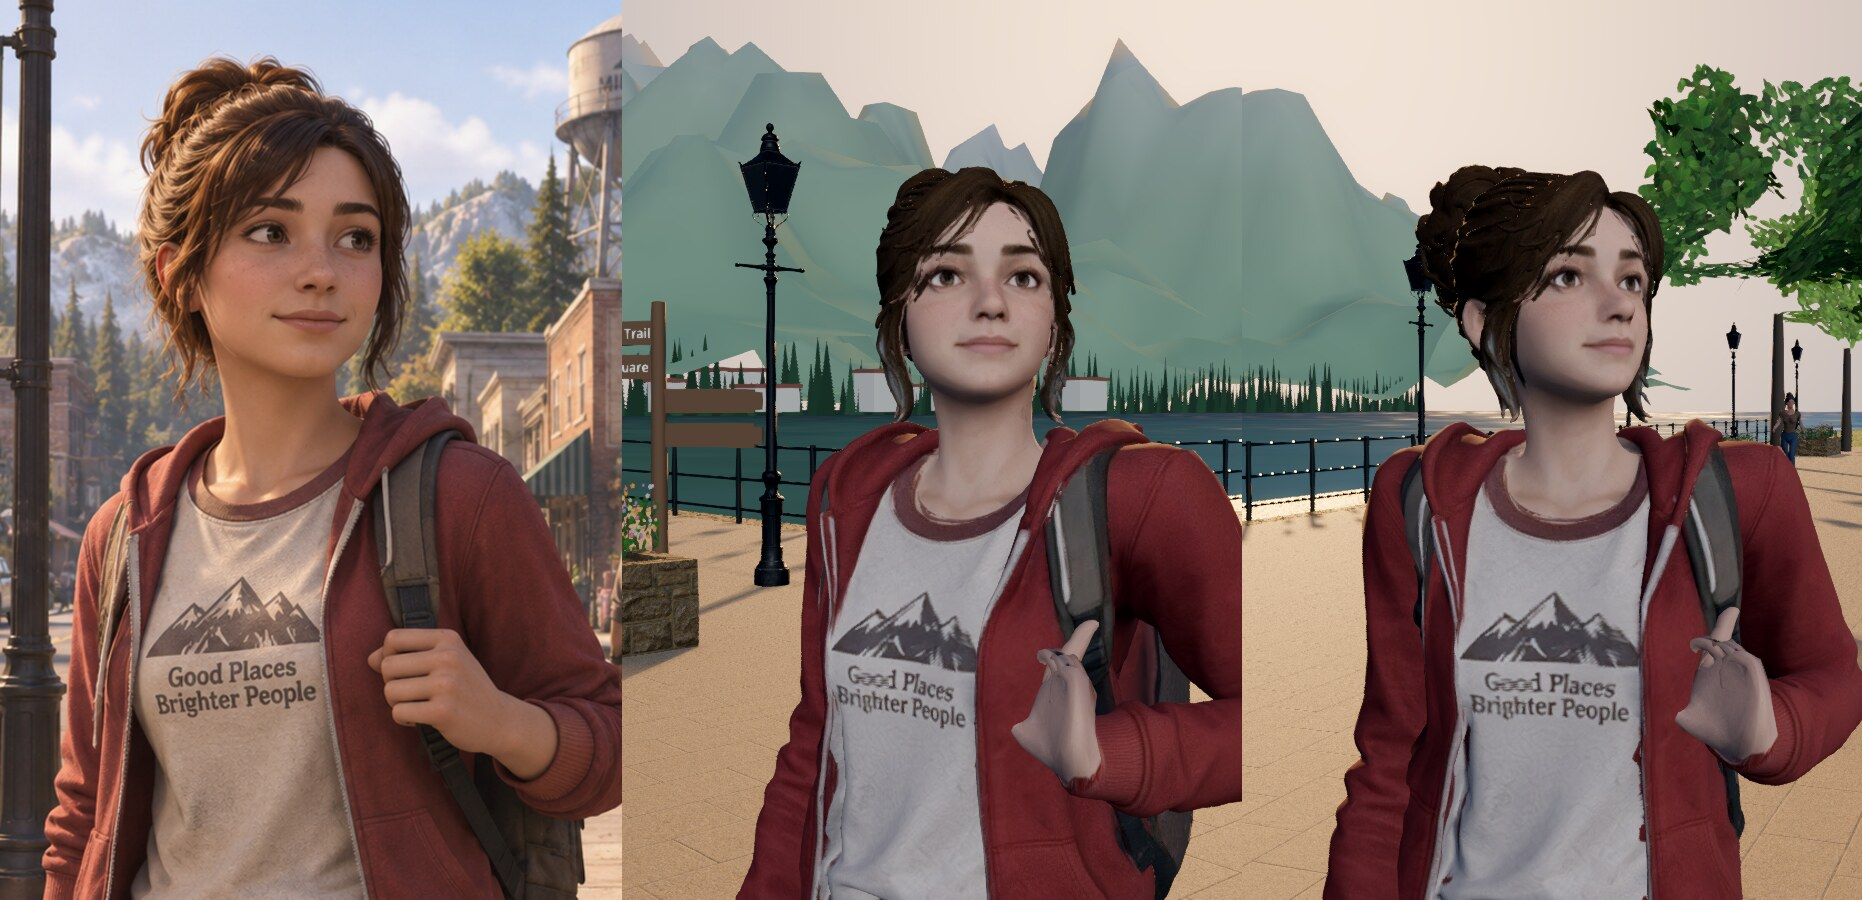
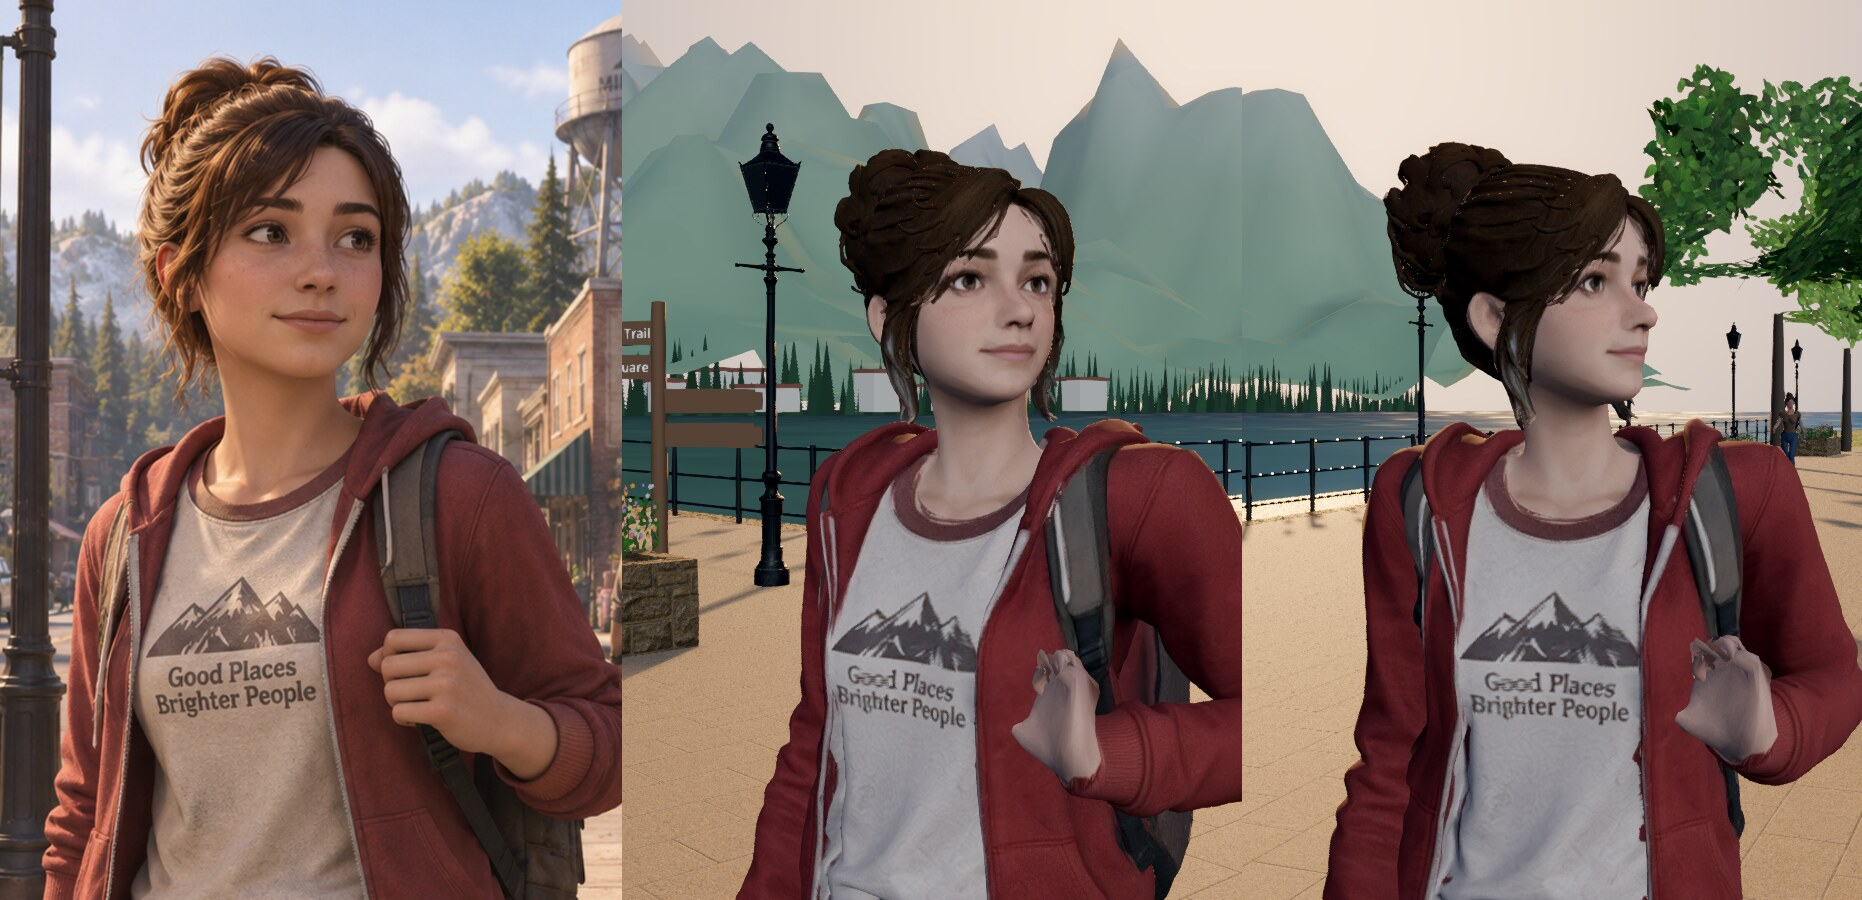
assets(3d): reference body fingers re-weighted per finger; hand closes on the strap
The fused finger surface took heat weights that blurred across the finger
bones, so the grip read as an open hand with a finger pointing up. Each
finger's vertices now follow their own chain (inverse-distance to the bone
segments, two nearest), and the curl closes the hand into a loose fist on
the strap. Provenance and base colour unchanged. Evidence d3-d7 regenerated;
ledger §8.6 and the queue entry updated.

diff --git a/docs/HUMAN_REVIEW_QUEUE.md b/docs/HUMAN_REVIEW_QUEUE.md
@@ -83,18 +83,20 @@ portraits), `d4_full_and_rear.jpg`, `d5_walk.jpg`, `d6_grip_armpit_hairline_zoom
 
 **Known misses, largest first.**
 
-1. The hand on the strap is open, fingers splayed, one finger pointing up, with a dark mark
-   across it; the reference's is a relaxed fist. The generated hand's fingers are one fused
-   surface, so they barely curl.
-2. She looks straight ahead and a little up; the reference looks off to her left. The eyes are
-   painted and cannot turn; only the head turns.
-3. The hair is a darker, cooler brown with no caramel highlights, and its locks read as heavier
+1. The hair is a darker, cooler brown with no caramel highlights, and its locks read as heavier
    sculpted ropes than the reference's soft wisps.
+2. The eyes are painted: the look to her left comes from turning the head, and the eyes cannot
+   move. No blink and no expressions either; the face has no lids or mouth that move.
+3. The hand on the strap is a loose fist on the strap's front edge, larger and paler than the
+   reference's; the reference's hand sits further onto the strap.
 4. The backpack is charcoal grey where the reference's is olive.
 5. The tee's slogan has a garbled first word; the tee is greyer-white than oatmeal.
-6. No blink and no expressions: the face has no lids or mouth that move.
-7. Light flecks along the hair's locks in the head close-up at 2×; not visible at the
+6. Light flecks along the hair's locks in the head close-up at 2×; not visible at the
    reference's framing.
+
+(Fixed before preparation, at the coordinator's review: the gripping hand had read as an open,
+splayed hand with one finger pointing up, and she had looked straight at the camera, chin up.
+Record §8.6.)
 
 **Scorecard** (§6, full table in the record §8.5): overall identity `PASS`; face identity, hair
 silhouette, hair colour, hoodie, tee, backpack, material quality and vibe `PARTIAL`; no hard-fail
@@ -104,7 +106,7 @@ category fails. No tear in any pose or in motion.
 
 1. Is this the right person at the right quality tier — enough to continue on this candidate
    rather than return to route C?
-2. Which miss matters most: the hand, the fixed gaze, or the hair colour and texture?
+2. Which miss matters most: the hair colour and texture, the painted eyes, or the hand?
 3. Is a character without blink or expression acceptable for now, or is that a blocker?
 
 ### `VIS-3D-GODOT-1` — FAILED, 2026-10-06 (operator verdict on the preview 3 state)

diff --git a/docs/references/CHARACTER_ROUTE_D_PLUS.md b/docs/references/CHARACTER_ROUTE_D_PLUS.md
@@ -338,3 +338,31 @@ zip, cuffs) and accessories (pack, both straps) all match.
   the coordinator, not handed to the operator.
 
 Credits: 0 in this session; route D+ total 90 of its ~200 (the three A-pose generations, §3).
+
+### 8.6 Hand and gaze fixed before the preview (coordinator review of `d3`)
+
+The coordinator agreed with §8.5 and required one fix first: the gripping hand read as an open,
+splayed hand with one finger up — a gesture, not a grip. Options in order: (1) re-weight the
+fingers per finger, (2) hide the open fingers behind the strap, (3) a relaxed arm. **(1) worked;
+(2) and (3) were not needed.**
+
+- **Finger re-weight** (`reweight_fingers.py`, scratch, on the reviewed `rig/meshy_char.blend`):
+  for every vertex weighted more than 95 % to one hand's bones, the heat weights are replaced by
+  inverse-distance weights (power 6) to that hand's bone segments, the two nearest kept and
+  normalised. Left hand 461 vertices, right 528; every finger bone gets its own vertices
+  (left: Index 65/29/69, Middle 50/21/33, Ring 36/18/24, Pinky 28/14/24, Thumb 6/22/22). Base
+  colour and provenance unchanged (verified: same PNG, `"ai_generated": true` present).
+- **Result** (`runtime_d11`): the 62° curl now closes the hand into a loose fist on the strap's
+  front edge at the chest. At the reference's 1:1 framing (`d3`, P2) and mid-stride at 2×
+  (`d5`) it reads as a hand holding a strap; the finger pointing up is gone. The free hand,
+  re-weighted the same way, hangs as a relaxed half-curled hand. No tear at 2× (`d6`).
+- **Gaze** (`human.gd`, `GAZE_*_D`): +14° head yaw, +5° neck yaw and 6° chin-down on the
+  reference body. In P2 she now looks off to her left past the camera with the chin level, as
+  the reference does; the bun shows above the crown. In the walk the clip owns the head, so she
+  looks ahead.
+- **Scorecard changes** against §8.5: face identity stays `PARTIAL` (freckles fainter, eyes
+  fixed in the head), now with the reference's head turn; backpack stays `PARTIAL` (charcoal
+  where the reference is olive), the grip itself now matching; vibe stays `PARTIAL`: the
+  up-gaze and the open hand are gone and the head turn matches, while the heavy sculpted locks
+  and the flatter light remain. §9 answer unchanged: yes. Evidence `d3`–`d7`
+  regenerated from `runtime_d11`.
